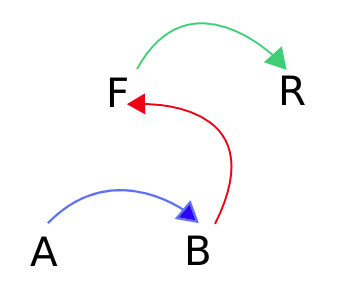
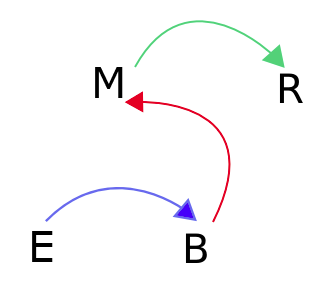
finished final paper

diff --git a/artificiallife/finalreport.tex b/artificiallife/finalreport.tex
@@ -25,7 +25,7 @@
 
 \section{Abstract}
 
-
+In response to Rosen's attempt to formalize the organism as a category theoretical diagram \cite{Rosen}, I attempt to build an instantiation of his metabolic-repair system as a trio of mutually modifying executable trees.  These trees incorporate a sense of entropy and renewal to bring the dynamics of the diagram to life in the face of a supplied generative environment.
 
 \section{Introduction}
 
@@ -51,7 +51,7 @@ In Rosen's world, F is not static.  Organisms form a closed causal loop where ev
 \includegraphics[scale=0.6]{rosen.png}
 \end{center}
 
-In this diagram, A entails B through F just like in Newton's model, but F itself is entailed by B from R.  R is generated from F by B.  In Rosen's terminology, F corresponds to ``metabolism'' and R to ``repair''.  A acts as the environment, an unentailed element which embodies the idea that an organism is an open system interacting with external forces beyond its membrane.  The three main functions are all entailed by other functions which are part of the system.  All the transformations act as both effector and effectee, as actor and acted-upon.  It is this diagram that I have attempted to implement for this project.
+In this diagram, A (here called E) entails B through F (here called M) just like in Newton's model, but M itself is entailed by B from R.  R is generated from M by B.  In Rosen's terminology, M corresponds to ``metabolism'', that which generates B, and R maps to ``repair'', that which renews M.  E acts as the environment, an unentailed element which embodies the idea that an organism is an open system interacting with external forces beyond its membrane.  The three main functions are all entailed by other functions which are part of the system.  All the transformations act as both effector and effectee, as actor and acted-upon.  It is this diagram that I have attempted to implement for this project.
 
 \section{Methods}
 
@@ -61,31 +61,55 @@ What kinds of things have this structure?  A matrix can act as both a function (
 
 A program can be thought of as a tree of instructions, with the root being the first instruction and execution taking a single path from root to leaf.  Each node is a particular operation and the branches from that node are conditional paths of execution.  So the tree only branches during conditional operations, otherwise it performs the operation of its node and continues along whatever execution path is given by its single child.  During a conditional operation the branch of execution is determined by the outcome of whatever predicate is associated with the operation.  
 
+\begin{center}
+\includegraphics[scale=0.6]{treerainbow.png}
+\end{center}
+
 In this case, the operations in each node work on trees themselves, rendering each tree a program that operates on other trees.  Each tree holds iterators to both a focus and a target tree.  The focus is a node inside another tree that is currently being read: the 'A' in the diagram.   The target is indexing a node into a tree that is being altered: the 'B' in the diagram.  When the tree executes, a single execution path is chosen based on evaluating the conditions in each 'if' node as it is reached.  This execution path has operations that read from the focus tree and writes to or alters the target tree.  In the case of 'F', the conditions depend on the particular properties of the environment 'A', which can be defined according to whatever application the diagram is being implemented for.  In this way I tried to make the system general in that the environment can be defined in any way.  As long as you supply the operations which work on the environment and a function which generates values from the environment, it can correspond to whatever you want.  
 
-For these tree operations I chose a limited set of operators: move up, move down, attach, insert, renew, and if.  The move operators are for navigating up and down the focus and target trees.  So there is a corresponding operator for moving up the focus tree as well as moving up the target tree, as well as for down.  If the iterator for that tree is already at the top when execution encounters a move up operator, nothing happens.  Likewise with move down.  
+For these tree operations I chose a limited set of operators: move, grow, renew, and if.  The move operators are for navigating up and down the focus and target trees.  So there is a corresponding operator for moving up the focus tree as well as moving up the target tree, as well as for down.  If the iterator for that tree is already at the top when execution encounters a move up operator, nothing happens.  Likewise with move down.  
 
-The attach operator takes the element the iterator is pointing to in the focus tree and adds it to the target node in the target tree.  Likewise with insert, but insert will actually shift the tree to add the node as a specific outlet, whereas attach will attach it to the first open outlet.  
+The grow operator takes the element the iterator is pointing to in the focus tree and adds it to the target node in the target tree. The grow operation attempts to fill out the tree, but when the tree is full it attaches it as a subtree of the node to be added, growing the tree from the root down.  This is to offset the purging which occurs from bottom up.  So there is a kind of cyclical adding and purging that flows from root to leaf, constantly renewing the operations that compose its functional identity.
 
 The renew operator relates to the idea of entropy.  In the discussion of the relationship between various components in an organism, a key idea is that in the working of metabolism translating elements of the environment into energetic bonds, the actual structure of the metabolic components break down.  There is no perpetual motion machine, in order for these molecules to function they are continually expending energy and compromising their basic structure in order to carry out their tasks.  This damage to the basic components of metabolism must be offset by a process.  This process of renewal of the metabolic actors is what Rosen called the ``repair'' function, and is represented by 'R' in the diagram.  
 
-In order to incorporate this idea of wear and renewal into this system I added in a value to each node called ``passes'', which keeps track of every time this node is visited during execution.  If the node is  a leaf and its number of passes exceeds some limit, the node is removed from the tree.  In this way the trees are progressively pruned during their operation based on how heavily the nodes are used in execution.  The renew operator then removes the wear from its target node, but at the expense of wear on itself.  This attempts to keep a balance between the proliferation of new nodes through attachments and insertions and a need to remove and wear down nodes.  However, it is a form of imposed entropy, not innate entropy as we witness in physical systems.  This is one of the greatest differences between physical systems and simulated ones, is that in physical systems entropy is an unavoidable quality of natural processes, imposed by the universe, whereas in simulated systems entropy must be inserted.  This is important because much of what organisms do can be considered in opposition to entropy, so any simulated organism by necessity is working under a contrived set of the real laws of nature which spurned its existence in the first place.  
+In order to incorporate this idea of wear and renewal into this system I added in a value to each node called ``passes'', which keeps track of every time this node is visited during execution.  If the node is  a leaf and its number of passes exceeds some limit, the node is removed from the tree.  In this way the trees are progressively pruned during their operation based on how heavily the nodes are used in execution.  The renew operator then removes the wear from its target node, but at the expense of wear on itself.  This attempts to keep a balance between the proliferation of new nodes through attachments and insertions and a need to remove nodes through a kind of simulaed entropy.  However, it is a form of imposed entropy, not innate entropy as we witness in physical systems.  This is one of the greatest differences between physical systems and simulated ones, is that in physical systems entropy is an unavoidable quality of natural processes, imposed by the universe, whereas in simulated systems entropy must be inserted.  This is important because much of what organisms do can be considered in relation or opposition to entropy, so any simulated organism by necessity is working under a contrived set of the real laws of nature which spurned its existence in the first place.  
+
+The if operator branches execution depending on what the type of node it is looking at in the focus tree.  Each if compares this type to its own internal type, so each if is a recognizer of only one type of node.  If these types match, it goes down the first branch.  Otherwise, it heads down the second.
 
 \section{Experiments}
 
+Many experiments were run.  The first trees I built were far more complicated than the final ones:  more conditions, more outlets, complex purging rules etc.  As I went I pared down the set of operations to only the four described above.  There were a number of different ways to join or splice in nodes that proved unnecessarily complicated.  Also, there was a set of conditions for every type of operation:  moving up in the target tree vs moving up in the focus tree for instance.  This proliferation meant that all of the if operations were overly specific and rarely traveled down the path corresponding to a 'true' condition.  Making the conditions agnostic to the more refined details of each operator gave a higher positive response and a more varied behavior from the system.  
 
+Another important distinction was between whether nodes should grow from the top or the bottom.  I had assumed that I would just add nodes as leaves, but in practice this meant that the leaves that were just added were also the first removed by the purging process.  This lead to a situation where there was a large static clump towards the root with many subtrees flitting in and out of existence further down the tree.  For another flavor I gave conditions where the node could be added as the root.  This gave more of an effect of continual renewal, where functional components come into being and then migrate down the tree until they are eventually removed through purging.  This lead to a much more organic feel in the growth of the trees, with all nodes going through a similar life cycle.  
+
+One key point about all of the experiments I ran is that I modeled the environment as a stochastic element.  The M tree based its conditions on a mapping between a value from 0 to 1 and a type of tree node.  In the future I would like to model a real environment, and also provide operations that in turn acted upon the environment, closing the causal loop and simulating something resembling a real system.  
 
 \section{Results}
 
+The results are nothing approaching conclusive.  This was more of an exploration than a real scientific study, I wanted to see what kind of system I could build that would emulate the relationships defined in the Rosen diagram.  Nonetheless, there are products of this endeavor.  Here is a snippet of code from one of the trees being generated on the fly from its relationships with other trees:
 
+\begin{center}
+\includegraphics[scale=0.6]{treecode.png}
+\end{center}
+
+And here is a screenshot of the simulation in action.  Trees are growing and shrinking, their functional dynamics elaborated and refined continuously:
+
+\begin{center}
+\includegraphics[scale=0.4]{treegrowth.png}
+\end{center}
+
+To really get any results I would have to hook it up to a real environment and provide it with meaningful input.  This is a project for the future.
 
 \section{Discussion}
 
+Much of what Rosen spoke of was that by the nature of an organism it incorporates all of its physical existence into the perpetuation of that form \cite{Alon}.  This situation is inherently unsimulatable, to produce a *genuine* organism one would have to sincerely create such a system in materio.  However, this does not mean there cannot be useful simulations constructed in the spirit of biological dynamics.  Indeed, possibly by crossing the levels here of what is executing and what is executed on, we are creating a new bottom where synthetic organisms could flourish.  
 
+The other consideration is that as a consequence of their physical embodiment, entropy is a key force behind the activity of the organism on a day to day basis \cite{Ho}.  The continual wearing down of the engines of life must be offset by some kind of process of renewal if the organism is going to last a day.  In the physical world this source of entropy is inherent, and the sole source of meaning behind the things organisms do.  The process of living is harnessing entropy to defy entropy, to turn the gradient of entropy around on itself and use it to actually sustain the form, rather than destroy it.  This is done of course with a continual flow of energy, without which nothing could live.  In a simulation, can it be meaningful if entropy must be supplied, as if it is another parameter?  Can a simulation be built that actually exhibits entropy as a necessary consequence of its functioning, and thereby provides a more solid foundation for replicating the dynamics particular to life?  Without some kind of embodiment of entropy, as a metaphor or model or otherwise, work cannot even begin on building something whose behavior is defined in terms of, and in response to entropy.
 
-\section{Summary}
+\section{Conclusion}
 
-
+Rosen's work is fundamental in an important way:  he examined the underpinnings of our mutual assumed epistemology, and rejected a particular assumption about how we understand reality in a formal context.  By showing that there are other kinds of models that can be built, with a richer set of structural entailments, he was providing us with options we didn't know we required.  Beyond that, he showed us that there is a wealth of fresh perspective to be found by challenging hidden assumptions, and points towards a way forward in constructing models that are rich enough, robust enough, flexible enough to truly capture the overall process of living.  This work was a first foray into making something concrete out of it.  It was utterly a programmer's literal take on what is a more general idea, and I have gained much insight into what Rosen may have really meant by these three functional components (plus environment!).  Perhaps rather than explicit functions, these three elements are more components of a single thing, or perspectives on the same thing, which happen to have this mutual relationship of entailments between them.  Perhaps with a deeper and more subtle understanding I will be able to apply these ideas in a more realistic context, now that I have gone this far.
 
 \bibliographystyle{plain}
 \bibliography{finalreport}
